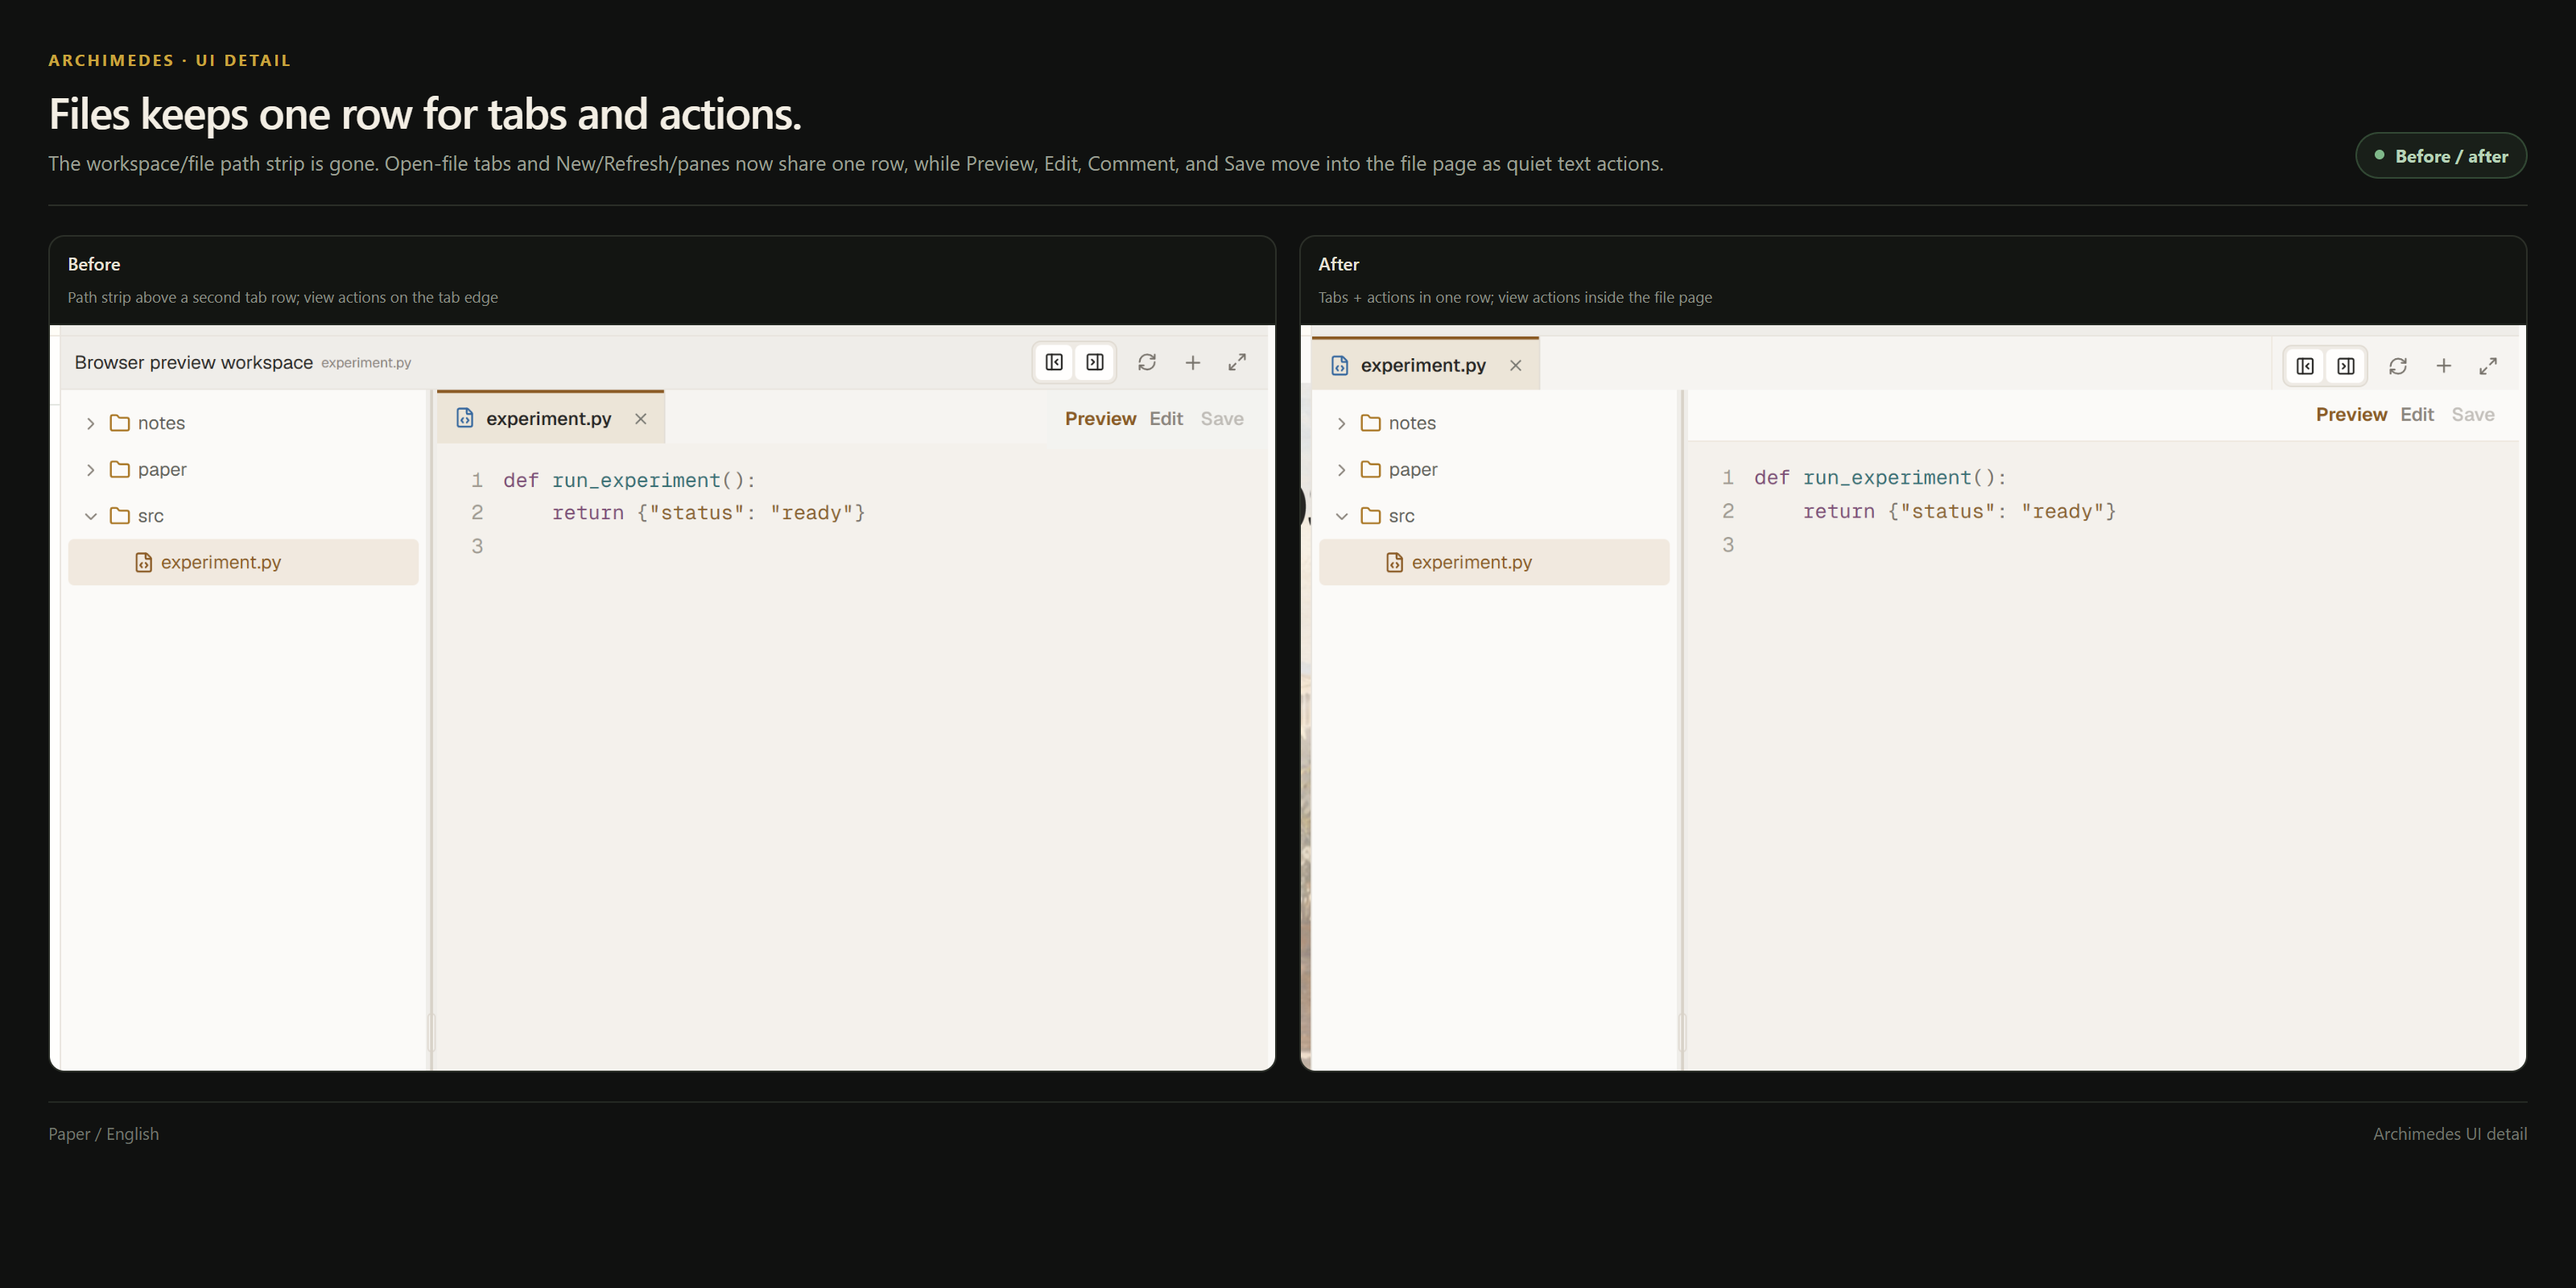
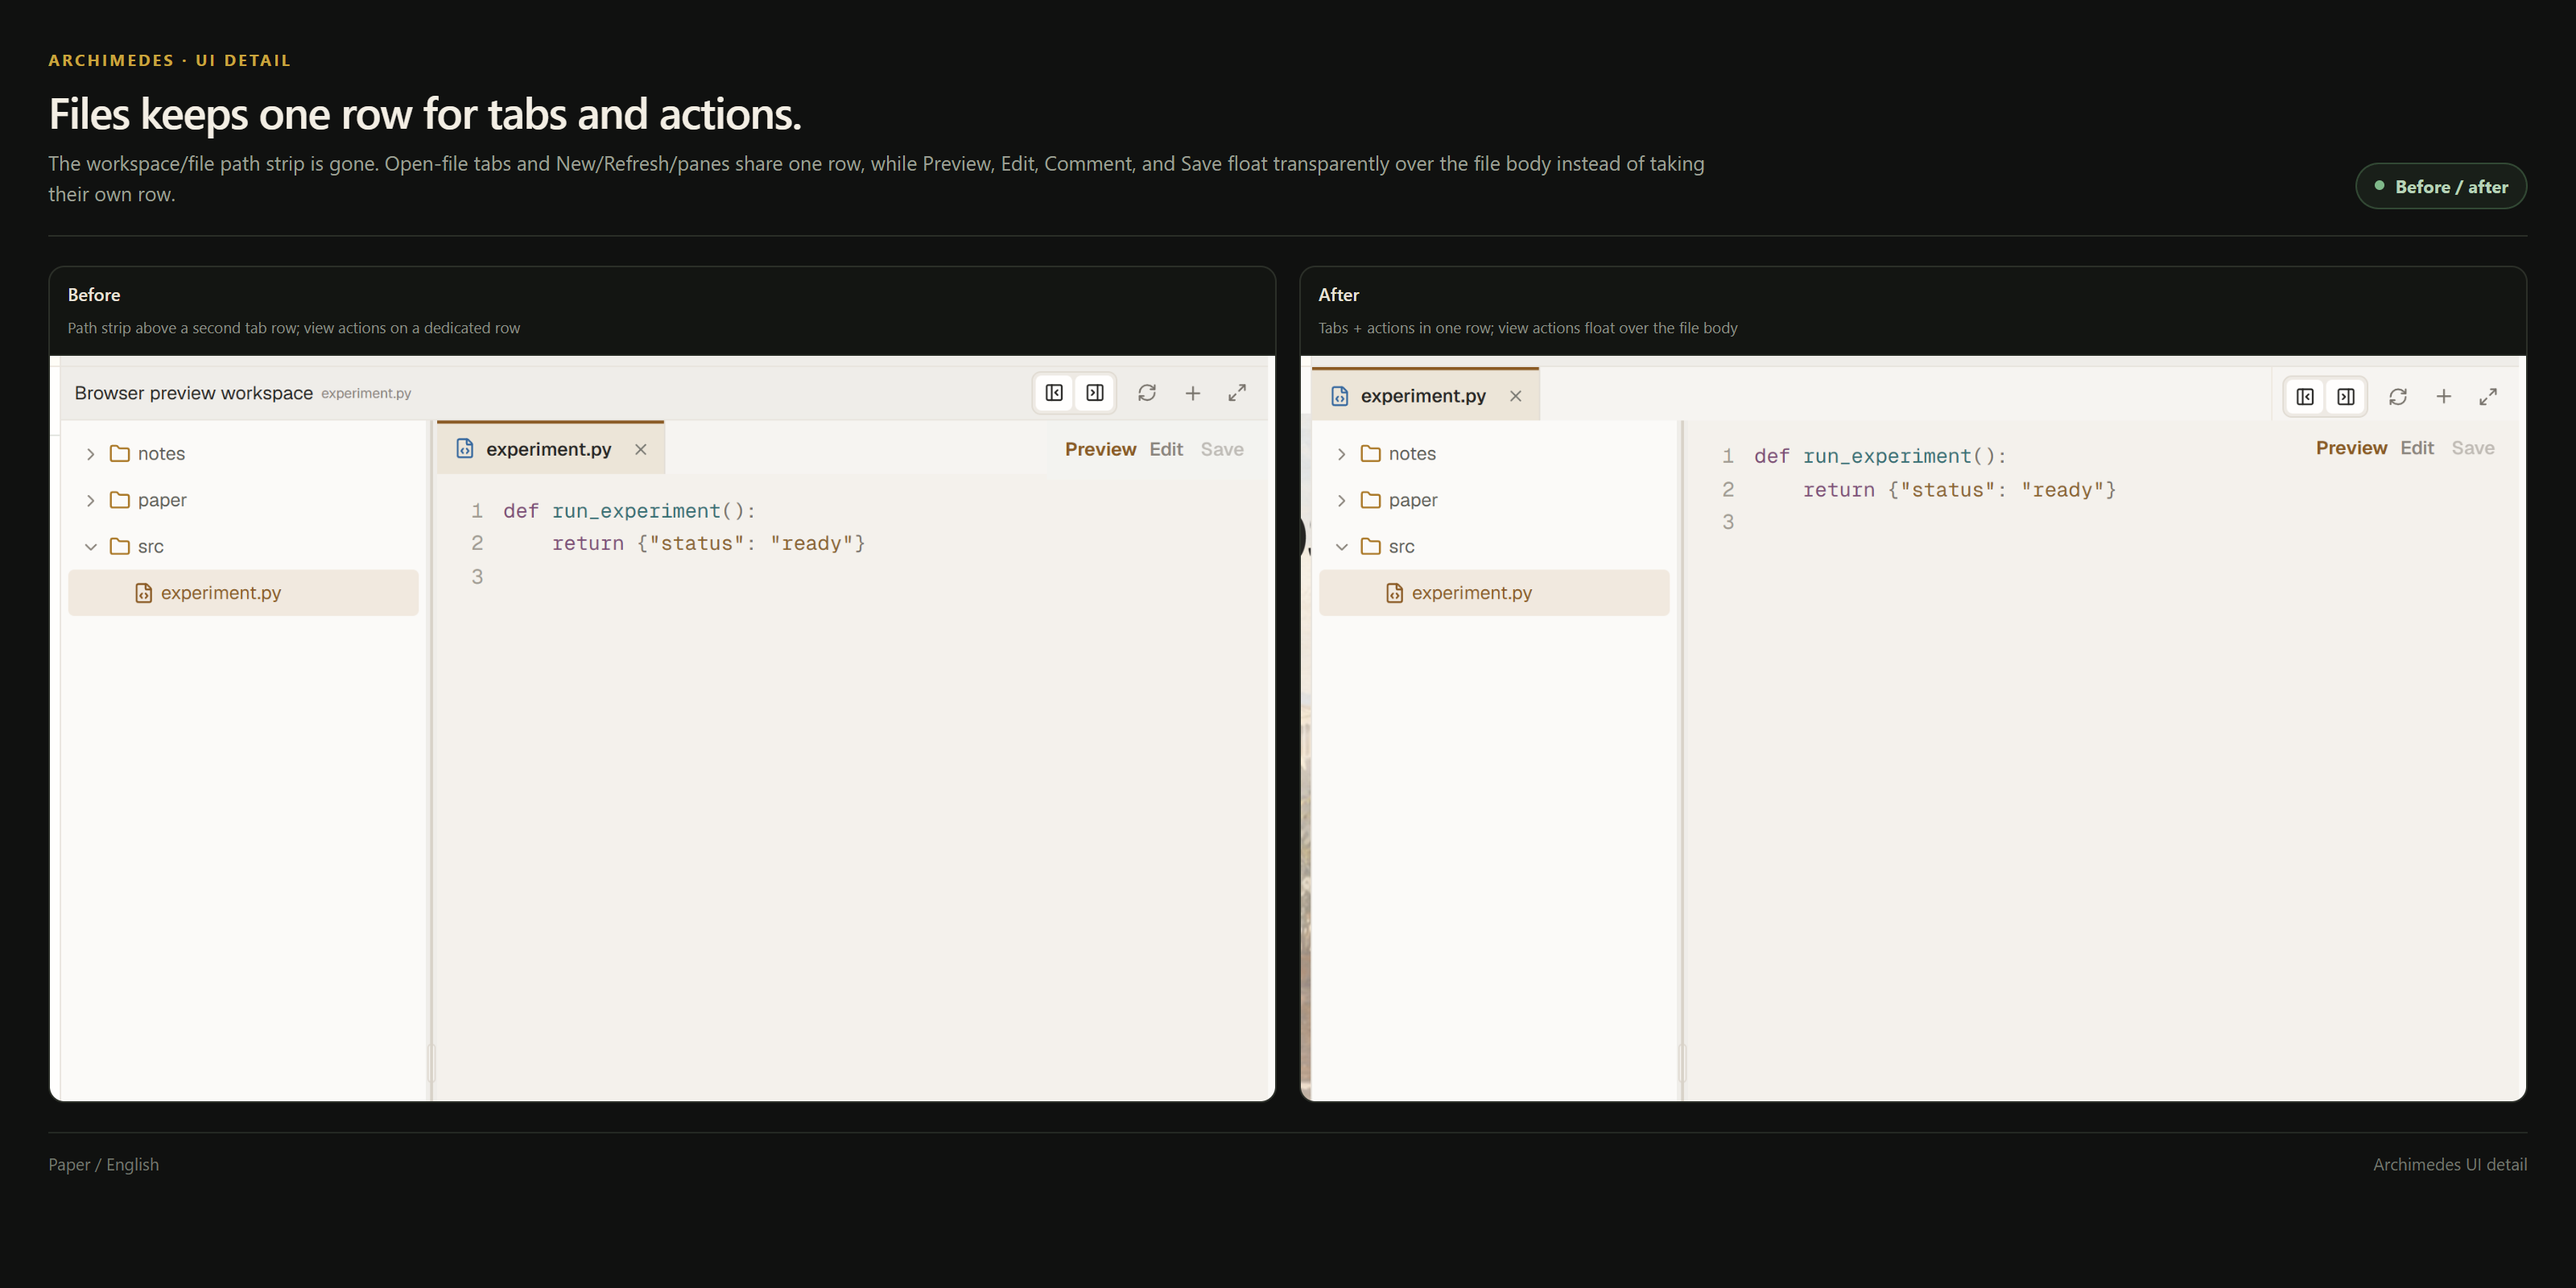
fix(files): float view actions over the file body

diff --git a/src/styles.css b/src/styles.css
@@ -5138,11 +5138,16 @@ html[data-theme="paper"] .image-creation-composer-note { color: #6f6a63; }
 }
 .artifact-tabs-row .artifact-tab { height: 100%; }
 .artifact-tabs-row .artifact-workbench-actions { margin-left: auto; padding: 0 6px; border-left: 1px solid var(--border-soft); }
+.artifact-workbench-body .artifact-editor-pane.compact .artifact-editor { position: relative; }
 .artifact-workbench-body .artifact-editor-pane.compact .artifact-editor-header.compact {
-  min-height: 34px;
-  padding: 0 12px;
+  position: absolute;
+  z-index: 4;
+  top: 0;
+  right: 0;
+  min-height: 0;
+  padding: 6px 12px 4px;
   background: transparent;
-  border-bottom: 1px solid var(--border-soft);
+  border: 0;
 }
 .artifact-editor-header.compact .artifact-editor-actions { gap: 8px; }
 .artifact-editor-header.compact .artifact-view-toggle { height: auto; gap: 8px; padding: 0; background: transparent; border-radius: 0; }
